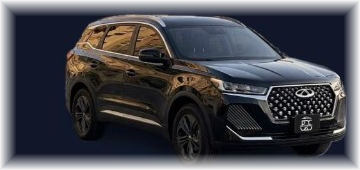
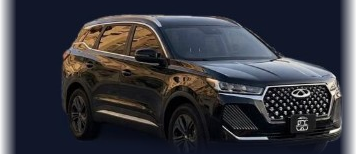
Center the Exceed, Tiggo and MG ZS, and label the mark
Those three sat on leftover navy from the price sheet, so they looked
shoved aside in the fleet cards. Recrop them, and put 525 Rent a Car
beside the logo in the sidebar.

diff --git a/src/components/Layout.tsx b/src/components/Layout.tsx
@@ -10,7 +10,6 @@ const LINKS = [
   { to: '/bookings', label: 'nav.bookings', icon: ScrollText, end: true },
 ];
 
-const logo = `${import.meta.env.BASE_URL}brand/logo.png`;
 const mark = `${import.meta.env.BASE_URL}brand/mark.png`;
 
 export function Layout({ children }: { children: ReactNode }) {
@@ -74,19 +73,27 @@ export function Layout({ children }: { children: ReactNode }) {
 }
 
 function Brand({ compact = false }: { compact?: boolean }) {
+  const wordmark = (
+    <span className="min-w-0 text-[13px] font-bold leading-tight tracking-tight text-black">
+      525 <span className="text-[#d1202d]">Rent a Car</span>
+    </span>
+  );
+
   if (compact) {
     return (
-      <img
-        src={mark}
-        alt="Five Two Five Rent A Car"
-        className="h-11 w-auto rounded-md bg-white px-2 py-1"
-      />
+      <div className="flex items-center gap-2 rounded-md bg-white px-2 py-1">
+        <img src={mark} alt="" className="h-9 w-auto" />
+        {wordmark}
+      </div>
     );
   }
 
   return (
     <div className="mx-3 mt-4 rounded-xl bg-white p-3">
-      <img src={logo} alt="Five Two Five Rent A Car" className="w-full" />
+      <div className="flex items-center gap-3">
+        <img src={mark} alt="Five Two Five" className="h-14 w-auto shrink-0" />
+        {wordmark}
+      </div>
     </div>
   );
 }

diff --git a/src/components/CarPhoto.tsx b/src/components/CarPhoto.tsx
@@ -4,6 +4,12 @@ import type { CarModel } from '../domain/types';
  * The car cutouts keep the navy they were photographed on, with their edges
  * faded, so they need to sit on that same navy to look seamless.
  */
+const FRAME: Record<string, string> = {
+  'exceed-lx-2025': 'object-[65%_center]',
+  'chery-tiggo-7': 'object-[65%_center]',
+  'mg-zs': 'object-[65%_center]',
+};
+
 export function CarPhoto({
   model,
   alt,
@@ -17,13 +23,15 @@ export function CarPhoto({
     return <div className={`bg-ink-850 ${className}`} />;
   }
 
+  const fit = FRAME[model.id] ?? 'object-center';
+
   return (
     <div className={`relative overflow-hidden bg-ink-850 ${className}`}>
       <img
         src={model.image}
         alt={alt}
         loading="lazy"
-        className="h-full w-full object-contain object-center"
+        className={`h-full w-full object-contain ${fit}`}
       />
     </div>
   );

diff --git a/scripts/extract-cars.py b/scripts/extract-cars.py
@@ -27,6 +27,11 @@ OUT_DIR = os.path.join(os.path.dirname(os.path.dirname(os.path.abspath(__file__)
 CAR_REGION = 0.44
 # How far a pixel must sit from its row's background before it counts as car.
 CAR_THRESHOLD = 34
+# The Exceed / Tiggo / MG sheet has leftover navy on the left that looks like
+# car at the default threshold, which shoved those three to the right.
+SHEET_THRESHOLD = {
+    "image-74bd1fc2-351f-44a6-bcbe-8dbfd838ee24.png": 55,
+}
 # Breathing room kept around the detected car, in pixels.
 PAD = 14
 # Width of the alpha ramp that melts the crop edge into the app background.
@@ -70,7 +75,7 @@ def row_backgrounds(px, width: int, height: int) -> list[tuple[int, int, int]]:
     return backgrounds
 
 
-def find_bands(im: Image.Image) -> list[tuple[int, int]]:
+def find_bands(im: Image.Image, threshold: int) -> list[tuple[int, int]]:
     """Locate the three horizontal strips that each contain one car."""
     width = int(im.width * CAR_REGION)
     region = im.crop((0, 0, width, im.height))
@@ -78,7 +83,7 @@ def find_bands(im: Image.Image) -> list[tuple[int, int]]:
     backgrounds = row_backgrounds(px, width, im.height)
 
     filled = [
-        sum(1 for x in range(0, width - 14, 3) if distance(px[x, y], backgrounds[y]) > CAR_THRESHOLD)
+        sum(1 for x in range(0, width - 14, 3) if distance(px[x, y], backgrounds[y]) > threshold)
         for y in range(im.height)
     ]
 
@@ -95,7 +100,7 @@ def find_bands(im: Image.Image) -> list[tuple[int, int]]:
     return bands
 
 
-def car_columns(im: Image.Image, top: int, bottom: int) -> tuple[int, int]:
+def car_columns(im: Image.Image, top: int, bottom: int, threshold: int) -> tuple[int, int]:
     """Horizontal extent of the car inside one band."""
     width = int(im.width * CAR_REGION)
     region = im.crop((0, top, width, bottom))
@@ -103,7 +108,7 @@ def car_columns(im: Image.Image, top: int, bottom: int) -> tuple[int, int]:
     backgrounds = row_backgrounds(px, width, region.height)
 
     columns = [
-        sum(1 for y in range(region.height) if distance(px[x, y], backgrounds[y]) > CAR_THRESHOLD)
+        sum(1 for y in range(region.height) if distance(px[x, y], backgrounds[y]) > threshold)
         for x in range(width - 14)
     ]
     hits = [x for x, count in enumerate(columns) if count > 2]
@@ -138,12 +143,13 @@ def main() -> None:
 
     for filename, slugs in SHEETS:
         sheet = Image.open(os.path.join(ASSETS, filename)).convert("RGB")
-        bands = find_bands(sheet)
+        threshold = SHEET_THRESHOLD.get(filename, CAR_THRESHOLD)
+        bands = find_bands(sheet, threshold)
         if len(bands) != len(slugs):
             raise SystemExit(f"{filename}: expected {len(slugs)} cars, found {len(bands)} bands {bands}")
 
         for (top, bottom), slug in zip(bands, slugs):
-            left, right = car_columns(sheet, top, bottom)
+            left, right = car_columns(sheet, top, bottom, threshold)
             box = (
                 max(0, left - PAD),
                 max(0, top - PAD),
